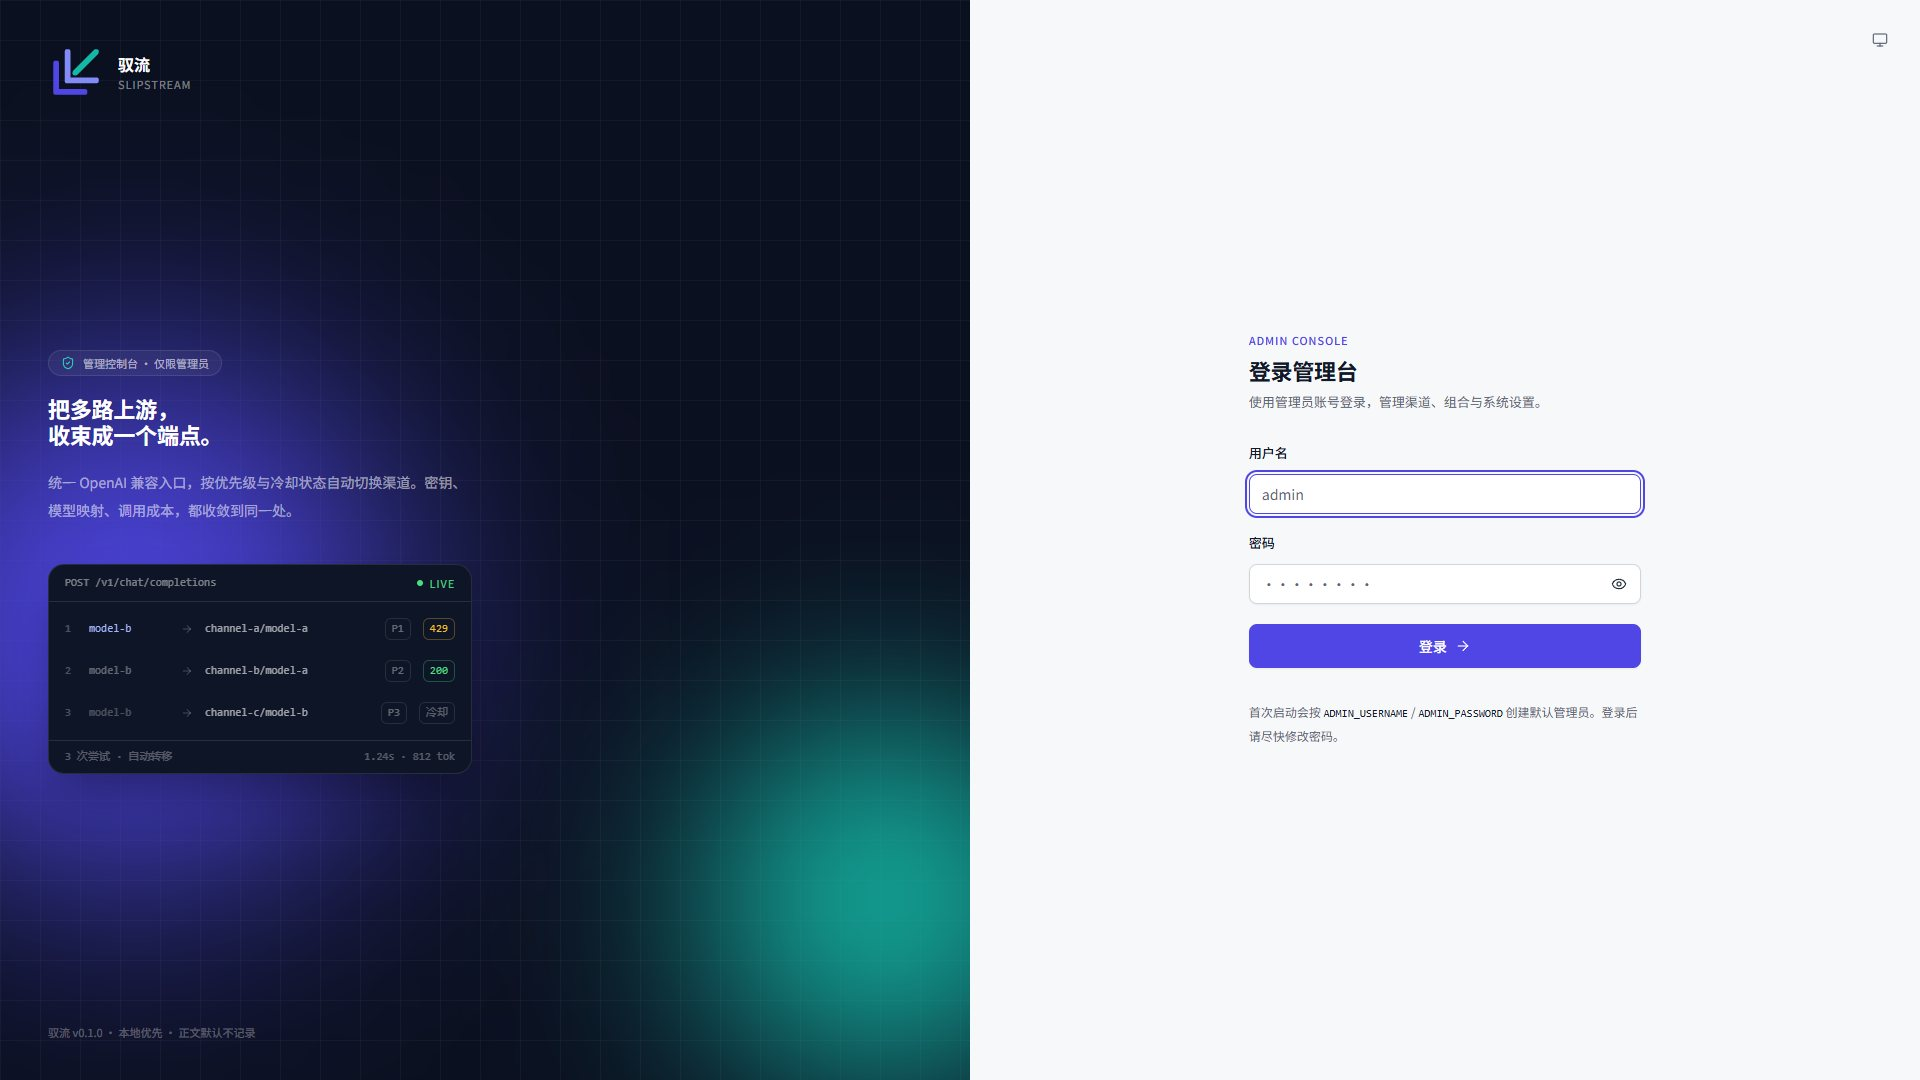
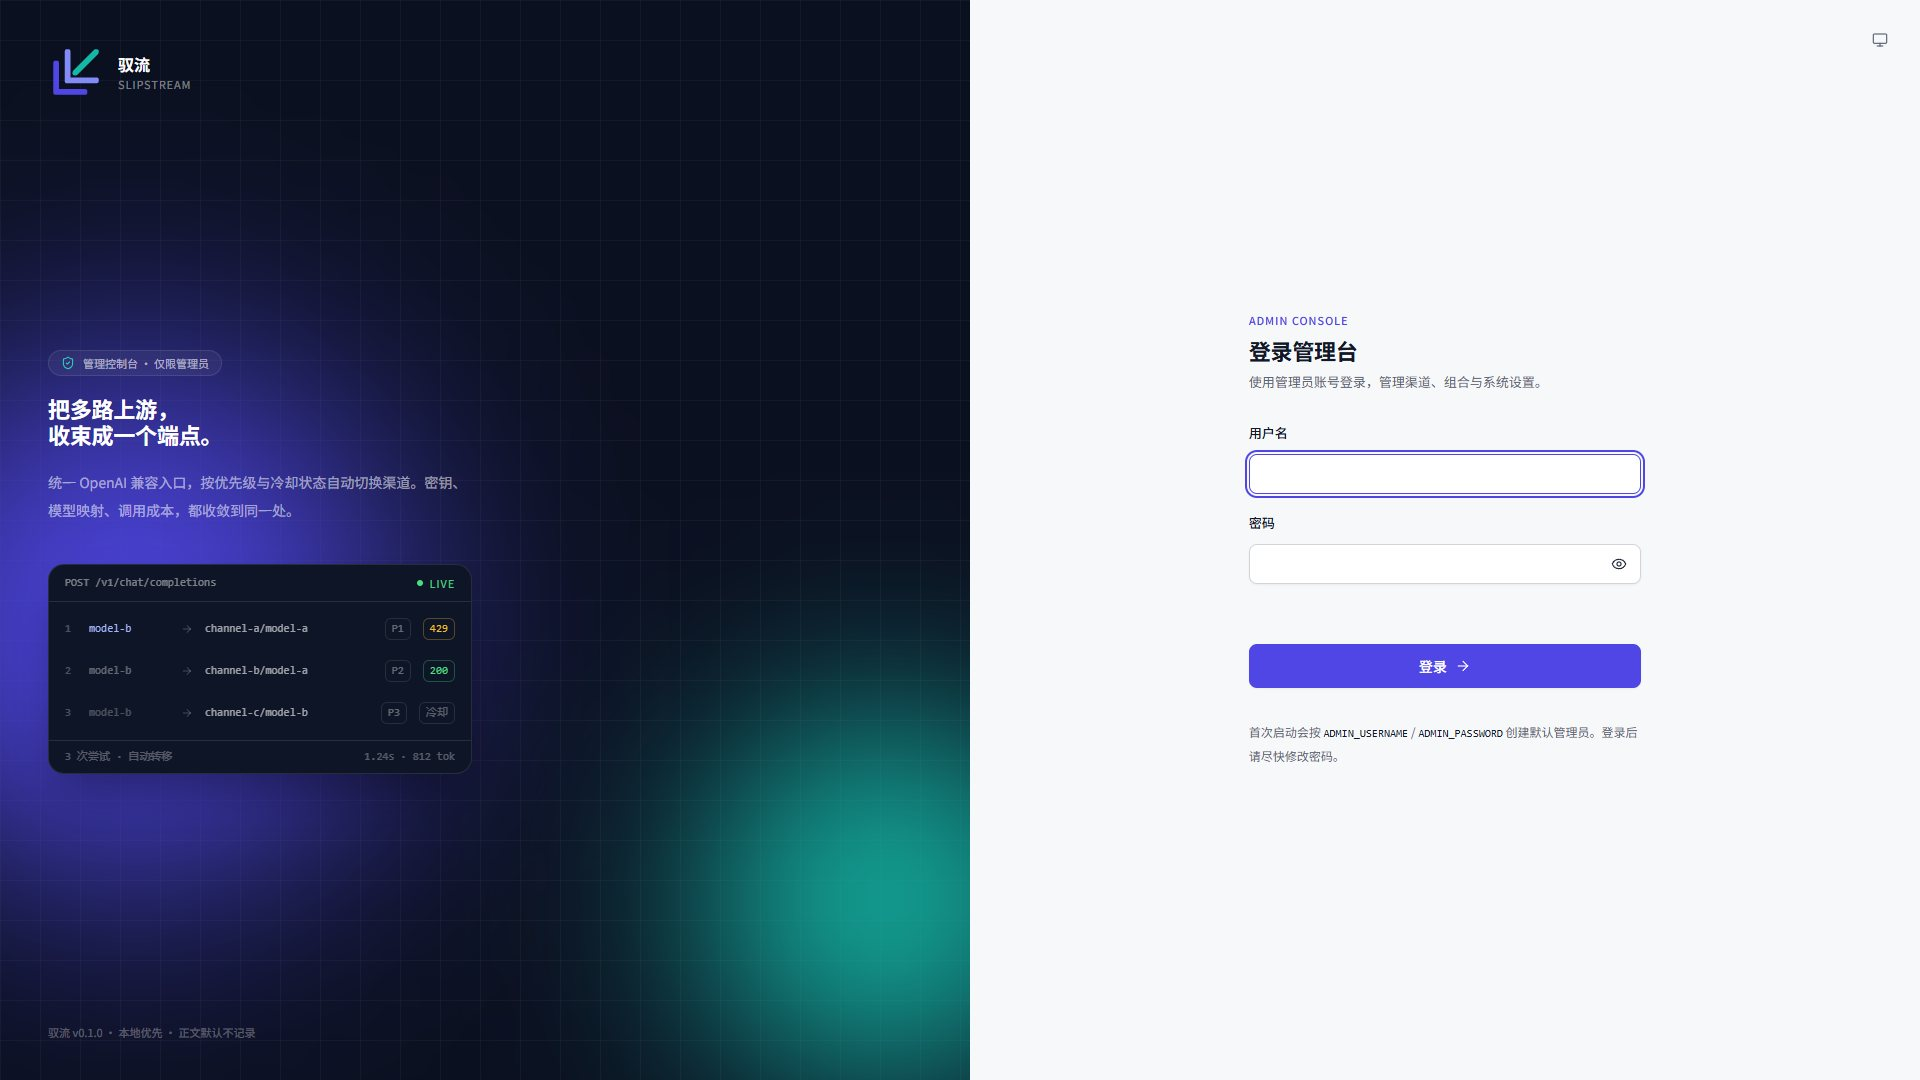
fix(ui): login form stops impersonating filled inputs and stops shifting on errors
用户三条反馈（2026-11-18）：
- 密码框 •••••••• 占位被误读成已输入的密码、用户名 admin 占位像预填账号：
  登录凭据输入框一律去掉 placeholder（占位符规则入 ui.md §2.4，
  「例如 …」前缀的格式示例豁免）。
- 校验/服务端报错会把「登录」按钮往下挤，瞄准按钮的鼠标点空：
  错误统一落**一个常驻预留槽**——只放在密码框与登录按钮之间（用户裁定），
  高度按最坏一行预留，多字段错误合并单行「请输入用户名、请输入密码」，
  报错出现/消失全程按钮位置恒定（实测 idle/报错按钮 y=643.875 零位移）。
- 三处占位（顶部 + 两字段旁）被指「空旷旷的」：已收敛为按钮前单槽，
  顶部与字段旁不再占位（规范入 ui.md §2.3）。

门禁：login 定向 7 用例绿、build ✓、lint:ui 0 error/16 warning。
README 登录截图同步重拍（1920×1080，q85），与实际 UI 一致。

Changed region(s): [[0.625, 0.5194, 0.875, 0.7028], [0.625, 0.275, 0.875, 0.4889]]

diff --git a/web/src/pages/login.tsx b/web/src/pages/login.tsx
@@ -6,7 +6,6 @@ import { useNavigate } from "react-router-dom";
 import { z } from "zod";
 
 import { ThemeMenu } from "@/components/layout/theme-menu";
-import { Alert } from "@/components/ui/alert";
 import { Button } from "@/components/ui/button";
 import { Field, FieldError, FieldLabel } from "@/components/ui/field";
 import { Input } from "@/components/ui/input";
@@ -176,22 +175,15 @@ export function LoginPage() {
           <p className="mt-2 text-2sm text-muted-foreground">使用管理员账号登录，管理渠道、组合与系统设置。</p>
 
           <form className="mt-8 space-y-5" onSubmit={onSubmit} noValidate>
-            {formError ? <Alert variant="destructive">{formError}</Alert> : null}
-
             <Field>
               <FieldLabel htmlFor="username">用户名</FieldLabel>
               <Input
                 id="username"
                 autoComplete="username"
                 autoFocus
-                placeholder="admin"
                 aria-invalid={errors.username ? "true" : undefined}
-                aria-describedby={errors.username ? "username-error" : undefined}
+                aria-describedby={errors.username ? "login-errors" : undefined}
                 {...register("username")}
-              />
-              <FieldError
-                id="username-error"
-                errors={errors.username ? [{ message: errors.username.message }] : undefined}
               />
             </Field>
 
@@ -202,10 +194,9 @@ export function LoginPage() {
                   id="password"
                   type={showPassword ? "text" : "password"}
                   autoComplete="current-password"
-                  placeholder="••••••••"
                   className="pr-11"
                   aria-invalid={errors.password ? "true" : undefined}
-                  aria-describedby={errors.password ? "password-error" : undefined}
+                  aria-describedby={errors.password ? "login-errors" : undefined}
                   {...register("password")}
                 />
                 <Button
@@ -222,11 +213,26 @@ export function LoginPage() {
                   )}
                 </Button>
               </div>
-              <FieldError
-                id="password-error"
-                errors={errors.password ? [{ message: errors.password.message }] : undefined}
-              />
             </Field>
+
+            {/* 唯一错误槽（2026-11-18 用户裁定）：只在密码框与登录按钮之间占位，其他位置不占。
+                高度按最坏一行预留，报错出现/消失全程按钮纹丝不动。 */}
+            <div className="min-h-5" aria-live="polite">
+              {formError ? (
+                <FieldError errors={[{ message: formError }]} />
+              ) : errors.username || errors.password ? (
+                <FieldError
+                  id="login-errors"
+                  errors={[
+                    {
+                      message: [errors.username?.message, errors.password?.message]
+                        .filter(Boolean)
+                        .join("、"),
+                    },
+                  ]}
+                />
+              ) : null}
+            </div>
 
             <Button type="submit" size="lg" className="w-full" disabled={isSubmitting}>
               {isSubmitting ? (

diff --git a/web/src/__tests__/login.test.tsx b/web/src/__tests__/login.test.tsx
@@ -36,8 +36,10 @@ describe("login form", () => {
     renderLogin();
     await user.click(screen.getByRole("button", { name: "登录" }));
 
-    expect(await screen.findByText("请输入用户名")).toBeInTheDocument();
-    expect(await screen.findByText("请输入密码")).toBeInTheDocument();
+    // 两个校验消息合并在登录按钮前的唯一错误槽里，单行展示
+    const slot = await screen.findByText(/请输入用户名/);
+    expect(slot).toHaveTextContent("请输入用户名");
+    expect(slot).toHaveTextContent("请输入密码");
     expect(fetchMock).not.toHaveBeenCalled();
   });
 });
@@ -91,12 +93,25 @@ describe("login page craft (audit B7/C11/N2)", () => {
     expect(container.innerHTML).not.toContain("tracking-[0.16em]");
   });
 
-  it("keeps the password placeholder terse and non-instructional", () => {
+  it("leaves both inputs placeholder-free so empty fields never read as filled", () => {
+    // 2026-11-18 用户裁定：密码框的点串占位会被当成已输入的密码，诱导直接点登录。
     renderLogin();
 
-    const password = screen.getByLabelText("密码");
-    expect(password).toHaveAttribute("placeholder", "••••••••");
-    expect(screen.queryByPlaceholderText("请输入密码")).toBeNull();
+    expect(screen.getByLabelText("密码")).not.toHaveAttribute("placeholder");
+    expect(screen.getByLabelText("用户名")).not.toHaveAttribute("placeholder");
+  });
+
+  it("reserves the single error slot before the button so it never shifts", () => {
+    // 2026-11-18 用户裁定（二次收敛）：多点占位太空旷，只在密码框与登录按钮之间
+    // 保留一个最坏一行高的错误槽；顶部与字段旁不再占位。
+    const { container } = renderLogin();
+
+    expect(container.querySelectorAll(".min-h-5")).toHaveLength(1);
+    expect(container.querySelector(".min-h-12")).toBeNull();
+    // 错误槽在登录按钮之前
+    const slot = container.querySelector(".min-h-5")!;
+    const button = screen.getByRole("button", { name: "登录" });
+    expect(slot.compareDocumentPosition(button) & Node.DOCUMENT_POSITION_FOLLOWING).toBeTruthy();
   });
 
   it("focuses the username input on first paint with no entrance animation on the card", () => {

diff --git a/docs/ui.md b/docs/ui.md
@@ -48,6 +48,7 @@
 - 键盘一等公民：验收含 Tab 顺序、Enter/Space、Escape、方向键、焦点陷阱、关闭后焦点归还。
 - 结构性容器必须 `role` + `aria-*` + 焦点管理：`role=dialog` 配陷阱与归还；`role=tablist` 配 roving tabindex，`aria-controls` 指向真实常驻的 `role=tabpanel`（未选中用 `hidden` 而非不渲染）；`title=` 不算 tooltip。
 - 四态互斥：loading 与 empty 不同屏；空态区分「无数据」与「无匹配」（后者给清除筛选 CTA）；同一事件不同时 toast + Alert；错误只落一处。
+- **错误出现不推移既有控件（2026-11-18 用户裁定，二次收敛）**：表单错误统一落**一个常驻预留槽**，位置固定在主动作按钮之前；槽位高度按最坏一行预留（多字段错误合并成单行「A、B」），报错出现/消失/修正全程按钮位置恒定。**不得在表单各处多点占位**——登录页曾试过顶部 + 两字段三处占位，被指「空旷旷的」。槽位高度有限时用单行文字（`FieldError`），不用带框 `Alert` 撑高。
 - 危险操作只走 `ConfirmDialog`（标题问句、正文写不可逆后果、取消在左 danger 在右、文案是动作）；禁 `window.confirm`。**确认弹窗全站唯一实现**：危险确认一律 `ui/confirm-dialog`，`AlertDialog` 只许用于非破坏性提示（如"渠道还没有密钥"）；标题必须是问句（「删除手动组合 X？」✓、「删除密钥」✗）；danger 按钮前景用 `--primary-on`，同一控件内不混用 `--danger` 与 `--danger-text`。
 - Radix Select 空值哨兵：`SELECT_ALL_VALUE="__all__"` / `SELECT_NONE_VALUE="__none__"`，唯一来源 `src/lib/select-sentinels.ts`；页面禁字面量与自起名；`value` 永远非空。`body_policy`（off/errors/all）是业务取值，不套用。
 - 格式化单一来源 `lib/format.ts`、`lib/time.tsx`；页面禁 `toFixed`/`toLocaleString` 包装；未配置单价显示「—」不渲染 `$0.00`（会被读成免费）；会纵向比较的数字用 `tabular-nums`；图表轴走 `formatTrendAxis`。
@@ -57,6 +58,7 @@
 
 - **未配置/无数据的数值位一律显示「—」，原因放 hint**：价格（`未配置单价` 场景数值位也是「—」）、失败请求的首字/首答耗时、无上游的转发地址，同理。禁渲染 `$0.00` / `0.00s` / `0`——会被读成"免费/零耗时"（实证：模型管理价格列、渠道模型映射单价列、日志失败行费用列三处违例；日志详情抽屉与试验页是正确示范）。
 - **表单不预填哨兵值**：可留空字段保持留空 + 说明留空语义（「留空 = 按输入价」✓）；禁止把 `0` 预填进价格/阈值输入框冒充默认值。`0` 只在"真实默认就是 0"时出现（如最大输入 0 = 未声明，需配文案说明）。
+- **占位符不得伪装成已填内容（2026-11-18 用户裁定）**：placeholder 与真实输入同色同位，空字段会因此看起来像已填（实证：登录密码框 `••••••••` 被误读成已输入的密码，诱导直接点登录）；登录凭据类输入框一律不留 placeholder。格式示例类占位符须带「例如」前缀（如 `例如 high / medium`）才算提示、不算伪装。
 - **空容器不渲染**：没有内容的消息框、空状态条不得画出来（实证：连接状态卡空消息渲染成孤立灰条）。空态区分「无数据」与「无匹配」，后者给清除筛选 CTA。
 - **能力宣传 = 事实**：端点清单、功能列表与后端实现逐项对齐（实证：概览页宣传 `/v1/messages` 与 Gemini 端点，实测不可用）。未实现的条目删除或标「未开放」。
 - **AI 装饰图标禁令**：`Sparkles` 等 sparkle 系只许出现在有真实 AI 语义的标记位；空态与文案装饰一律不用（lucide `Wand2` 这类**区分真实状态**的功能图标豁免，需注释说明）。
